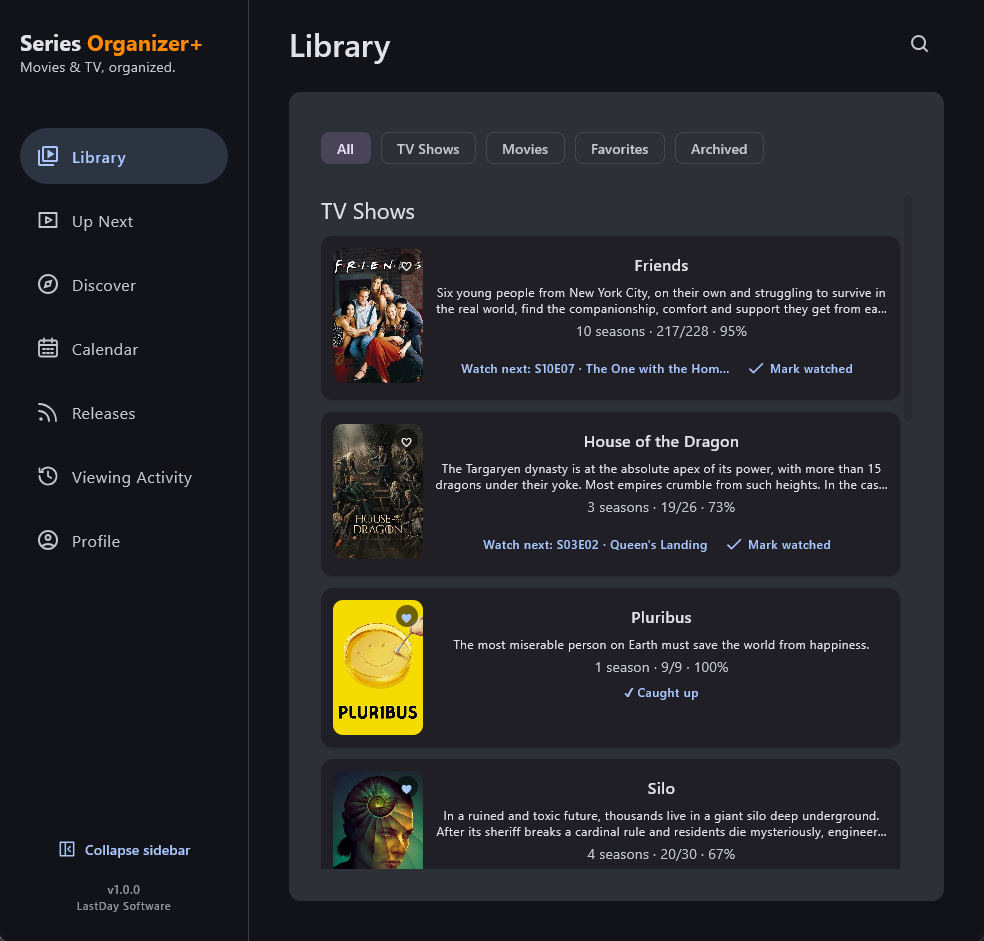
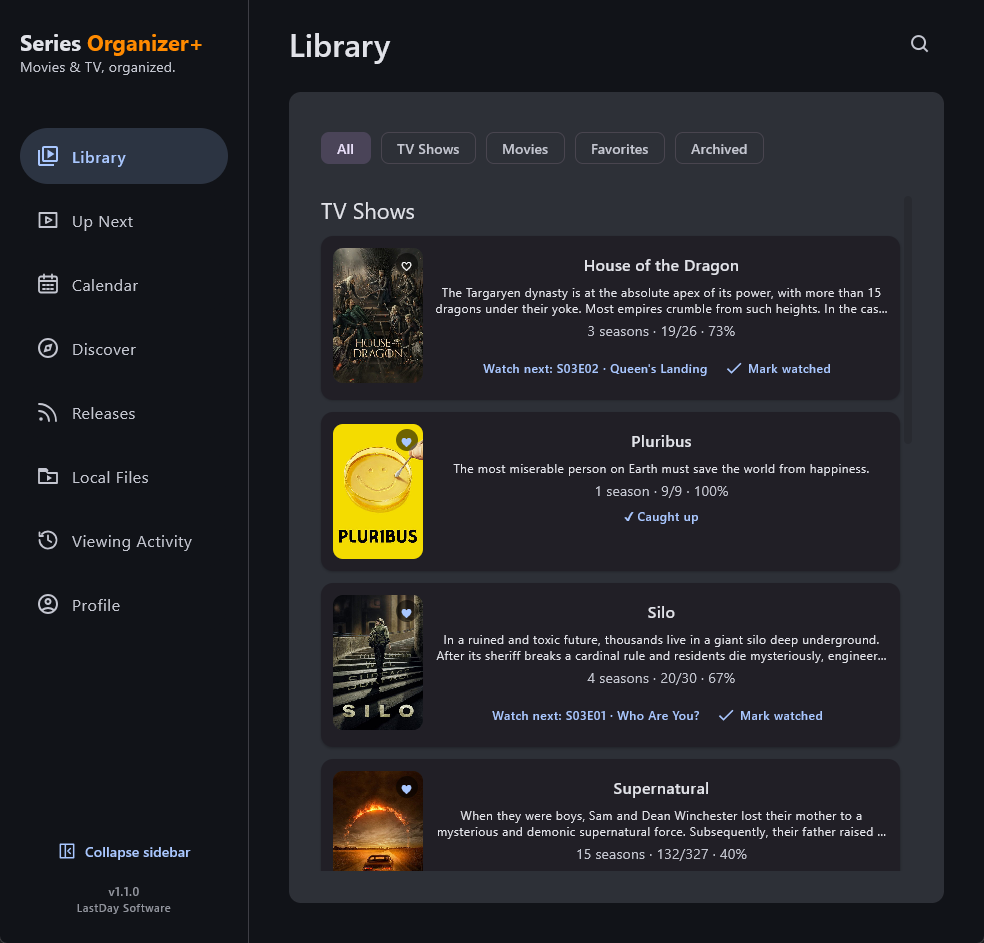
desktop v1.1 release

diff --git a/news/posts/series-organizer-plus-1-1-0.html b/news/posts/series-organizer-plus-1-1-0.html
@@ -1,0 +1,111 @@
+<!doctype html>
+<html lang="en">
+<head>
+<meta charset="UTF-8" />
+<meta name="viewport" content="width=device-width, initial-scale=1.0" />
+<meta name="theme-color" content="#111111" />
+<link rel="icon" type="image/svg+xml" href="../../assets/brand/icon_master.svg" />
+<link rel="alternate icon" type="image/png" href="../../assets/brand/icon_play_store_512.png" />
+<link rel="stylesheet" href="../../styles.css" />
+<link rel="alternate" type="application/rss+xml" title="Series Organizer+ News" href="../../feed.xml" />
+<title>Series Organizer+ 1.1.0: more ways to keep track — Series Organizer+</title>
+<meta name="description" content="Local Files, a look back at your year, more flexible Up Next and For You, and stronger syncing in the latest Windows release." />
+<link rel="canonical" href="https://seriesorganizer.com/news/posts/series-organizer-plus-1-1-0.html" />
+<meta property="og:title" content="Series Organizer+ 1.1.0: more ways to keep track — Series Organizer+" />
+<meta property="og:description" content="Local Files, a look back at your year, more flexible Up Next and For You, and stronger syncing in the latest Windows release." />
+<meta property="og:type" content="article" />
+<meta property="og:url" content="https://seriesorganizer.com/news/posts/series-organizer-plus-1-1-0.html" />
+<meta property="og:site_name" content="Series Organizer+" />
+<meta property="og:image" content="https://seriesorganizer.com/assets/brand/series-organizer-plus-full-dark.png" />
+<meta name="twitter:card" content="summary_large_image" />
+<meta name="twitter:title" content="Series Organizer+ 1.1.0: more ways to keep track — Series Organizer+" />
+<meta name="twitter:description" content="Local Files, a look back at your year, more flexible Up Next and For You, and stronger syncing in the latest Windows release." />
+<meta name="twitter:image" content="https://seriesorganizer.com/assets/brand/series-organizer-plus-full-dark.png" />
+<meta property="article:published_time" content="2026-09-30T00:00:00Z" />
+</head>
+<body>
+<header class="site-header">
+  <div class="container header-inner">
+    <a class="brand" href="../../index.html" aria-label="Series Organizer+ home">
+      <img class="brand-icon" src="../../assets/brand/series-organizer-plus-mark-dark.svg" alt="" />
+      <div class="brand-text">
+        <strong>Series Organizer+</strong>
+        <small>Movies &amp; TV, organized.</small>
+      </div>
+    </a>
+    <nav class="main-nav" aria-label="Main navigation">
+      <a href="../../index.html#features">Features</a>
+      <a href="../../index.html#discover">Discover</a>
+      <a href="../../news/">News</a>
+      <a href="../../index.html#legacy">Our story</a>
+      <a href="../../index.html#development">What's next</a>
+    </nav>
+    <nav class="footer-links" aria-label="Language"><span><strong>EN</strong> | <a href="../../pt/">PT</a></span></nav>
+  </div>
+</header>
+<main class="news-page">
+  <article class="container news-container news-article">
+    <a class="policy-back" href="../">← News</a>
+    <p class="section-label">SERIES ORGANIZER+ NEWS</p>
+    <h1>Series Organizer+ 1.1.0: more ways to keep track</h1>
+    <p class="news-date">September 30, 2026</p>
+    <div class="news-body">
+        <p><strong>Series Organizer+ 1.1.0 is now available for Windows.</strong> This update brings your Library closer to the way you actually watch, while making it easier to move between devices.</p>
+        <h2>Your files, your Library</h2>
+        <p>The new <strong>Local Files</strong> view can scan a folder and its subfolders for movies and episodes, match them to titles in your Library, and open a file in your default Windows player. You choose the folder and scan interval, and you can hide the view from the sidebar when you don't need it.</p>
+        <h2>More personal, more flexible</h2>
+        <ul>
+        <li><strong>For You</strong> gives you more control over the Library title behind a “Because you watched” recommendation.</li>
+        <li>The Library's <strong>Up Next</strong> preview can show different numbers of TV and movie cards.</li>
+        <li><strong>Your Year</strong> brings your viewing activity together in a year-by-year view.</li>
+        </ul>
+        <h2>A smoother experience across devices</h2>
+        <p>Account sync now handles Library additions and removals in both directions more reliably, with clearer review when device and cloud records differ. A progress indicator shows when newly synced titles are fetching their details. We've also fixed missing items in the Desktop navigation reorder settings and a layout issue in Profile &gt; General &gt; Navigation.</p>
+        <p><a href="https://seriesorganizer.com/#download">Download Series Organizer+ 1.1.0 for Windows</a> from the official website. Android remains in development.</p>
+    </div>
+    <div class="news-comments">
+      <h2>Comments</h2>
+      <script src="https://giscus.app/client.js"
+        data-repo="lastdaysoftware/seriesorganizer-web"
+        data-repo-id="R_kgDOUZHLzw"
+        data-category="Announcements"
+        data-category-id="DIC_kwDOUZHLz84DGb6E"
+        data-mapping="pathname"
+        data-strict="1"
+        data-reactions-enabled="1"
+        data-emit-metadata="0"
+        data-input-position="bottom"
+        data-theme="dark"
+        data-lang="en"
+        crossorigin="anonymous"
+        async>
+</script>
+    </div>
+  </article>
+</main>
+<footer>
+  <div class="container footer-inner">
+    <div class="footer-brand">
+      <div class="footer-brand-row">
+        <img src="../../assets/brand/series-organizer-plus-mark-dark.svg" alt="" />
+        <div>
+          <strong>Series Organizer+</strong>
+          <small>Movies &amp; TV, organized.</small>
+        </div>
+      </div>
+      <p>A LastDay Software project.</p>
+      <p class="tmdb-attribution">
+        This product uses the TMDB API but is not endorsed or certified by TMDB.
+        <a href="https://www.themoviedb.org/">Visit TMDB</a>.
+      </p>
+    </div>
+    <nav class="footer-links" aria-label="Footer navigation">
+      <a href="../../privacy.html">Privacy</a>
+      <a href="../../website-privacy.html">Website Privacy</a>
+      <a href="../../account-deletion.html">Account deletion</a>
+      <a href="../../support.html">Support</a>
+    </nav>
+  </div>
+</footer>
+</body>
+</html>

diff --git a/pt/index.html b/pt/index.html
@@ -15,14 +15,14 @@
   <link rel="alternate" hreflang="pt-PT" href="https://seriesorganizer.com/pt/" />
   <link rel="alternate" hreflang="x-default" href="https://seriesorganizer.com/" />
   <meta property="og:title" content="Series Organizer+ — Filmes e TV, organizados." />
-  <meta property="og:description" content="O Series Organizer+ v1.0.0 está disponível para Windows. Organiza filmes e séries e descobre o que ver a seguir." />
+  <meta property="og:description" content="O Series Organizer+ v1.1.0 está disponível para Windows. Organiza filmes e séries e descobre o que ver a seguir." />
   <meta property="og:type" content="website" />
   <meta property="og:url" content="https://seriesorganizer.com/pt/" />
   <meta property="og:site_name" content="Series Organizer+" />
   <meta property="og:image" content="https://seriesorganizer.com/assets/brand/series-organizer-plus-full-dark.png" />
   <meta name="twitter:card" content="summary_large_image" />
   <meta name="twitter:title" content="Series Organizer+ — Filmes e TV, organizados." />
-  <meta name="twitter:description" content="O Series Organizer+ v1.0.0 está disponível para Windows. Organiza filmes e séries e descobre o que ver a seguir." />
+  <meta name="twitter:description" content="O Series Organizer+ v1.1.0 está disponível para Windows. Organiza filmes e séries e descobre o que ver a seguir." />
   <meta name="twitter:image" content="https://seriesorganizer.com/assets/brand/series-organizer-plus-full-dark.png" />
 </head>
 <body>
@@ -52,7 +52,7 @@
     <section class="hero hero-refresh">
       <div class="container hero-grid">
         <div class="hero-copy">
-          <p class="eyebrow">WINDOWS v1.0.0 · ANDROID EM DESENVOLVIMENTO</p>
+          <p class="eyebrow">WINDOWS v1.1.0 · ANDROID EM DESENVOLVIMENTO</p>
 
           <img
             class="hero-logo hero-logo-left"
@@ -69,7 +69,7 @@
 
           <div class="status-pill status-pill-left">
             <span class="status-dot" aria-hidden="true"></span>
-            Windows v1.0.0 pronto para download
+            Windows v1.1.0 pronto para download
           </div>
 
           <div class="hero-tags" aria-label="Destaques principais">
@@ -102,17 +102,17 @@
         <div class="download-copy">
           <p class="section-label">OBTER O SERIES ORGANIZER+</p>
           <h2 id="download-title">A tua próxima história começa aqui.</h2>
-          <p>O Series Organizer+ v1.0.0 está disponível para Windows. Descarrega o instalador, organiza a tua Biblioteca e continua de onde paraste.</p>
+          <p>O Series Organizer+ v1.1.0 está disponível para Windows. Descarrega o instalador, organiza a tua Biblioteca e continua de onde paraste.</p>
           <p class="download-platform-note">A versão Android ainda está a ser preparada para lançamento público.</p>
         </div>
         <div class="download-card">
           <span class="platform-badge">WINDOWS DESKTOP</span>
-          <h3>Series Organizer+ v1.0.0</h3>
+          <h3>Series Organizer+ v1.1.0</h3>
           <p>Instalador para Windows (.msi)</p>
-          <p class="download-size">Tamanho: 86 458 306 bytes (82,45 MiB)</p>
-          <a class="button button-primary" href="https://downloads.seriesorganizer.com/Series%20Organizer%20Plus-1.0.0.msi">Descarregar instalador</a>
-          <div class="download-checksum"><span>SHA-256</span><code>CC48E30A6E067F16CCCC7502A2789E121413B678158D85196C0583A93836F7E6</code></div>
-          <p class="download-safety">Este primeiro instalador não tem assinatura digital, pelo que o Windows pode mostrar um aviso de editor desconhecido. Descarrega-o apenas desta página oficial.</p>
+          <p class="download-size">Tamanho: 86 782 523 bytes (82,76 MiB)</p>
+          <a class="button button-primary" href="https://downloads.seriesorganizer.com/Series%20Organizer%20Plus-1.1.0.msi">Descarregar instalador</a>
+          <div class="download-checksum"><span>SHA-256</span><code>17018FEF6622D0CA8D0512922BAB276EE355773DCF04D582BC7B481070F3C37F</code></div>
+          <p class="download-safety">Este instalador não tem assinatura digital, pelo que o Windows pode mostrar um aviso de editor desconhecido. Descarrega-o apenas desta página oficial.</p>
         </div>
       </div>
     </section>
@@ -207,11 +207,11 @@
           <article class="platform-card">
             <div class="platform-meta">
               <span class="platform-badge">WINDOWS DESKTOP</span>
-              <span class="platform-state platform-state-ready">v1.0.0 disponível</span>
+              <span class="platform-state platform-state-ready">v1.1.0 disponível</span>
             </div>
             <h3>Feito para o teu desktop Windows.</h3>
             <p>
-              A versão 1.0.0 reúne a tua Biblioteca, o acompanhamento e a descoberta numa interface desktop pensada para o dia a dia.
+              A versão 1.1.0 acrescenta Ficheiros locais, O teu ano e mais flexibilidade na Biblioteca e nas recomendações.
             </p>
             <ul class="feature-list compact-list">
               <li>Biblioteca, Up Next e Calendário</li>
@@ -509,13 +509,13 @@
         <p class="section-label">O QUE VEM A SEGUIR</p>
         <h2>A história continua.</h2>
         <p>
-          A primeira versão para Windows já chegou. O Android continua a caminho e ambas as experiências vão continuar a evoluir.
+          A versão mais recente para Windows já chegou. O Android continua a caminho e ambas as experiências vão continuar a evoluir.
         </p>
 
         <div class="development-grid">
           <article class="development-card">
             <strong>Agora</strong>
-            <span>Windows v1.0.0: Biblioteca, Up Next, Calendário, Descoberta, Release Feed, Achievements e muito mais.</span>
+            <span>Windows v1.1.0: Ficheiros locais, O teu ano, Up Next mais flexível e muito mais.</span>
           </article>
 
           <article class="development-card">

diff --git a/index.html b/index.html
@@ -15,14 +15,14 @@
   <link rel="alternate" hreflang="pt-PT" href="https://seriesorganizer.com/pt/" />
   <link rel="alternate" hreflang="x-default" href="https://seriesorganizer.com/" />
   <meta property="og:title" content="Series Organizer+ — Movies &amp; TV, organized." />
-  <meta property="og:description" content="Series Organizer+ v1.0.0 is available for Windows. Keep your movies and TV organized and discover what comes next." />
+  <meta property="og:description" content="Series Organizer+ v1.1.0 is available for Windows. Keep your movies and TV organized and discover what comes next." />
   <meta property="og:type" content="website" />
   <meta property="og:url" content="https://seriesorganizer.com/" />
   <meta property="og:site_name" content="Series Organizer+" />
   <meta property="og:image" content="https://seriesorganizer.com/assets/brand/series-organizer-plus-full-dark.png" />
   <meta name="twitter:card" content="summary_large_image" />
   <meta name="twitter:title" content="Series Organizer+ — Movies &amp; TV, organized." />
-  <meta name="twitter:description" content="Series Organizer+ v1.0.0 is available for Windows. Keep your movies and TV organized and discover what comes next." />
+  <meta name="twitter:description" content="Series Organizer+ v1.1.0 is available for Windows. Keep your movies and TV organized and discover what comes next." />
   <meta name="twitter:image" content="https://seriesorganizer.com/assets/brand/series-organizer-plus-full-dark.png" />
 </head>
 <body>
@@ -52,7 +52,7 @@
     <section class="hero hero-refresh">
       <div class="container hero-grid">
         <div class="hero-copy">
-          <p class="eyebrow">WINDOWS v1.0.0 · ANDROID IN DEVELOPMENT</p>
+          <p class="eyebrow">WINDOWS v1.1.0 · ANDROID IN DEVELOPMENT</p>
 
           <img
             class="hero-logo hero-logo-left"
@@ -69,7 +69,7 @@
 
           <div class="status-pill status-pill-left">
             <span class="status-dot" aria-hidden="true"></span>
-            Windows v1.0.0 ready for download
+            Windows v1.1.0 ready for download
           </div>
 
           <div class="hero-tags" aria-label="Key highlights">
@@ -102,17 +102,17 @@
         <div class="download-copy">
           <p class="section-label">GET SERIES ORGANIZER+</p>
           <h2 id="download-title">Your next watch starts here.</h2>
-          <p>Series Organizer+ v1.0.0 is available for Windows. Download the installer, build your library and pick up where you left off.</p>
+          <p>Series Organizer+ v1.1.0 is available for Windows. Download the installer, build your library and pick up where you left off.</p>
           <p class="download-platform-note">Android is still being prepared for a public release.</p>
         </div>
         <div class="download-card">
           <span class="platform-badge">WINDOWS DESKTOP</span>
-          <h3>Series Organizer+ v1.0.0</h3>
+          <h3>Series Organizer+ v1.1.0</h3>
           <p>Windows installer (.msi)</p>
-          <p class="download-size">File size: 86,458,306 bytes (82.45 MiB)</p>
-          <a class="button button-primary" href="https://downloads.seriesorganizer.com/Series%20Organizer%20Plus-1.0.0.msi">Download installer</a>
-          <div class="download-checksum"><span>SHA-256 checksum</span><code>CC48E30A6E067F16CCCC7502A2789E121413B678158D85196C0583A93836F7E6</code></div>
-          <p class="download-safety">This first installer is unsigned, so Windows may show an unknown-publisher warning. Download only from this official page.</p>
+          <p class="download-size">File size: 86,782,523 bytes (82.76 MiB)</p>
+          <a class="button button-primary" href="https://downloads.seriesorganizer.com/Series%20Organizer%20Plus-1.1.0.msi">Download installer</a>
+          <div class="download-checksum"><span>SHA-256 checksum</span><code>17018FEF6622D0CA8D0512922BAB276EE355773DCF04D582BC7B481070F3C37F</code></div>
+          <p class="download-safety">This installer is unsigned, so Windows may show an unknown-publisher warning. Download only from this official page.</p>
         </div>
       </div>
     </section>
@@ -206,11 +206,11 @@
           <article class="platform-card">
             <div class="platform-meta">
               <span class="platform-badge">WINDOWS DESKTOP</span>
-              <span class="platform-state platform-state-ready">v1.0.0 available</span>
+              <span class="platform-state platform-state-ready">v1.1.0 available</span>
             </div>
             <h3>Made for your Windows desktop.</h3>
             <p>
-              Version 1.0.0 brings your library, tracking and discovery into a desktop layout designed for everyday use.
+              Version 1.1.0 adds Local Files, Your Year, and more flexible Library and discovery features.
             </p>
             <ul class="feature-list compact-list">
               <li>Library, Up Next and Calendar</li>
@@ -513,13 +513,13 @@
         <p class="section-label">WHAT'S NEXT</p>
         <h2>The story continues.</h2>
         <p>
-          The first Windows release is here. Android is still on its way, and both experiences will keep improving.
+          The latest Windows release is here. Android is still on its way, and both experiences will keep improving.
         </p>
 
         <div class="development-grid">
           <article class="development-card">
             <strong>Now</strong>
-            <span>Windows v1.0.0: Library, Up Next, Calendar, Discover, Release Feed, Achievements and more.</span>
+            <span>Windows v1.1.0: Local Files, Your Year, flexible Up Next and more.</span>
           </article>
 
           <article class="development-card">

diff --git a/news/index.html b/news/index.html
@@ -51,6 +51,12 @@
     <p><a class="news-rss-link" href="../feed.xml">RSS feed</a></p>
     <div class="news-list">
       <article class="news-card">
+        <p class="news-date">September 30, 2026</p>
+        <h2><a href="posts/series-organizer-plus-1-1-0.html">Series Organizer+ 1.1.0: more ways to keep track</a></h2>
+        <p>Local Files, a look back at your year, more flexible Up Next and For You, and stronger syncing in the latest Windows release.</p>
+        <a class="news-read-more" href="posts/series-organizer-plus-1-1-0.html">Read more →</a>
+      </article>
+      <article class="news-card">
         <p class="news-date">September 29, 2026</p>
         <h2><a href="posts/series-organizer-plus-windows-launch.html">Series Organizer+ 1.0.0 is here for Windows</a></h2>
         <p>The first public desktop release is here, bringing your movies and TV together with tracking, discovery, release feeds and more.</p>

diff --git a/content/news/2026-09-30-series-organizer-plus-1-1-0.md b/content/news/2026-09-30-series-organizer-plus-1-1-0.md
@@ -1,0 +1,24 @@
+---
+title: Series Organizer+ 1.1.0: more ways to keep track
+date: 2026-09-30
+slug: series-organizer-plus-1-1-0
+summary: Local Files, a look back at your year, more flexible Up Next and For You, and stronger syncing in the latest Windows release.
+---
+
+**Series Organizer+ 1.1.0 is now available for Windows.** This update brings your Library closer to the way you actually watch, while making it easier to move between devices.
+
+## Your files, your Library
+
+The new **Local Files** view can scan a folder and its subfolders for movies and episodes, match them to titles in your Library, and open a file in your default Windows player. You choose the folder and scan interval, and you can hide the view from the sidebar when you don't need it.
+
+## More personal, more flexible
+
+- **For You** gives you more control over the Library title behind a “Because you watched” recommendation.
+- The Library's **Up Next** preview can show different numbers of TV and movie cards.
+- **Your Year** brings your viewing activity together in a year-by-year view.
+
+## A smoother experience across devices
+
+Account sync now handles Library additions and removals in both directions more reliably, with clearer review when device and cloud records differ. A progress indicator shows when newly synced titles are fetching their details. We've also fixed missing items in the Desktop navigation reorder settings and a layout issue in Profile > General > Navigation.
+
+[Download Series Organizer+ 1.1.0 for Windows](https://seriesorganizer.com/#download) from the official website. Android remains in development.
